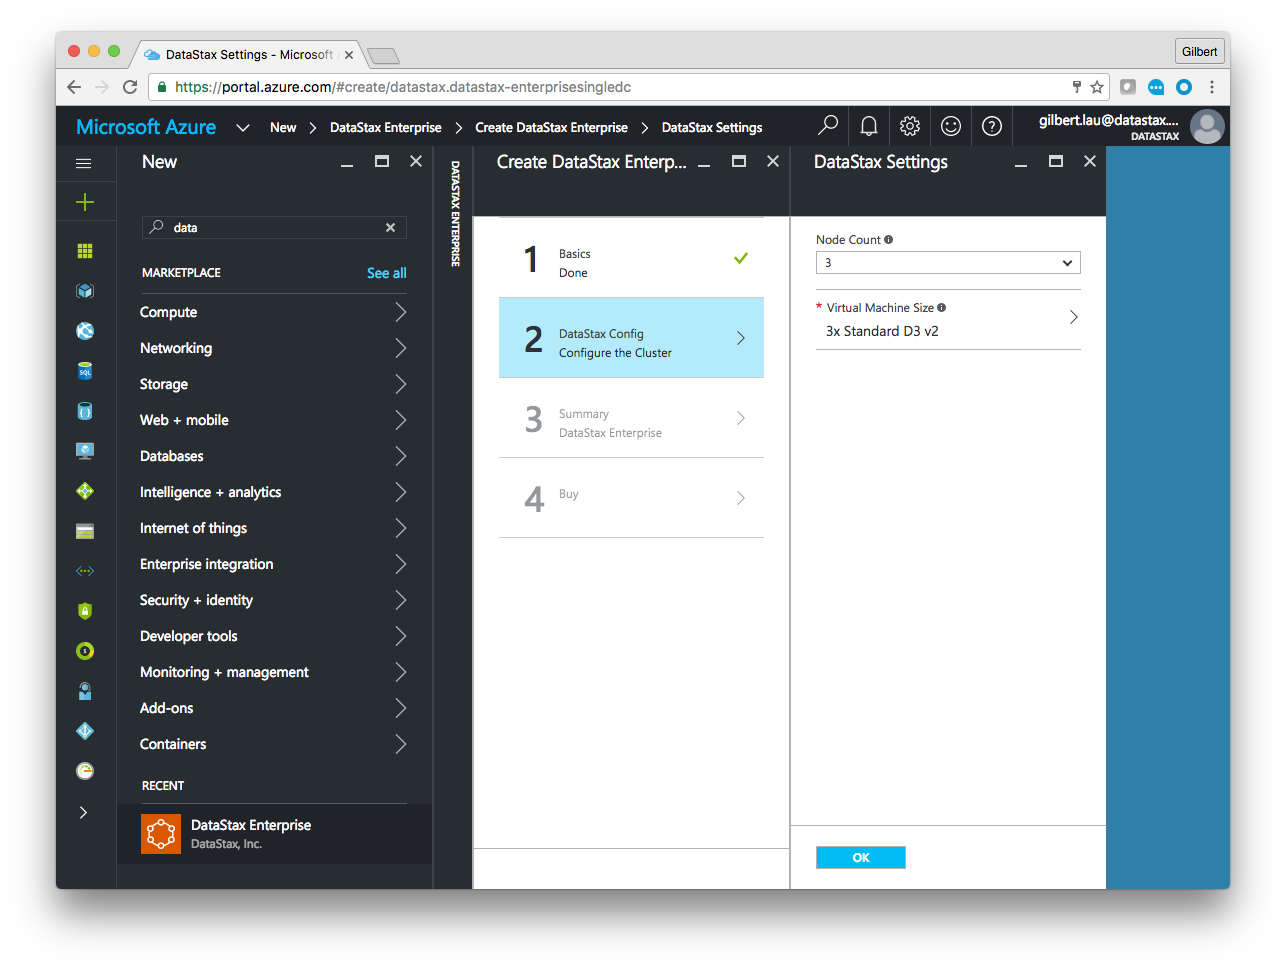
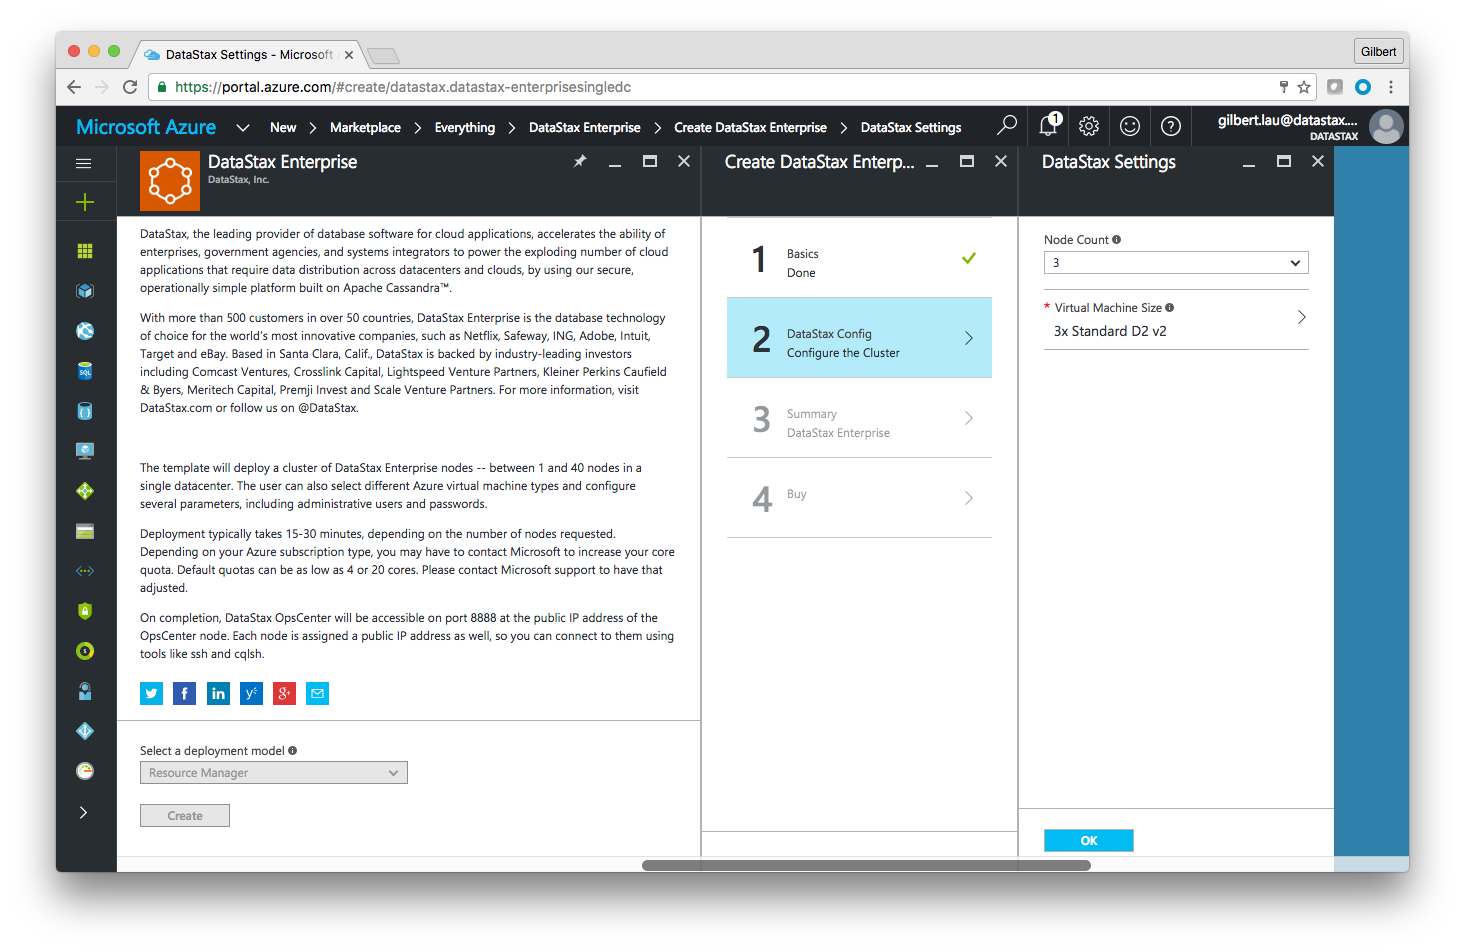
Reverted back to D2 machines
Run two gremlin queries in Graph lab now.

diff --git a/labs/Lab 7 - Graph.md b/labs/Lab 7 - Graph.md
@@ -112,7 +112,7 @@ list_of_review_data_paths = ['/path/to/reviews.json.gz']
 list_of_review_data_paths = ['/path/to/reviews.json.gz']
 list_of_metadata_paths = ['/path/to/meta.json.gz']
 ```
-In my environemnt, they are:
+In my environment, they are:
 ```
 // data file paths
 list_of_review_data_paths = ['/home/datastax/DSE_Graph/reviews.json.gz']
@@ -125,29 +125,17 @@ Now, let's load the data into your graph database
 cd <DSE graph loader install directory>
 ./graphloader <DSE_Graph/DSE-Graph-For-Fun git project directory>/data_mapper.groovy -graph product_graph -address localhost
 ```
-This process will take approximately ten minutes.
+In my environment, the command is:
+```
+./graphloader /home/datastax/DSE_Graph/DSE-Graph-For-Fun/data_mapper.groovy -graph product_graph -address localhost
+```
+
+This process will take approximately 15 minutes as we are loading millions of records.
 
 
 ##### Now, we are ready to run some queries.
 
-Let's run a very broad query to return all vertices.  Remember that Studio truncates results to 1000 by default.  This query will take around 6 or 7 minutes long as it has to traverse the entire graph.
-```
-g.V()
-```
-
-![](./img/lab7_gV.png)
-
-Now, let's run a more refined query to retrieve reviews of all product items.  This query will take around 6 or 7 minutes long as it has to traverse the entire graph.
-
-```
-g.V().outE('reviewed')
-```
-
-![](./img/lab7_item_reviewed.png)
-![](.img/lab7_item_reviewed_graph.png)
-
-
-Next, let's find out how many items have the word "awesome" in their description.  Run the following Gremlin query:
+Let's find out how many items have the word "awesome" in their description.  Run the following Gremlin query:
 
 ```
 g.V().has('Item','description', Search.tokenRegex('awesome')).count()

diff --git a/labs/Lab 0 - Provisioning.md b/labs/Lab 0 - Provisioning.md
@@ -36,7 +36,7 @@ When complete click "ok."
 
 ![](./img/lab0-6datastaxsettings_v502.png)
 
-We're going to deploy a smaller cluster than the default.  Select 3 nodes and ensure that "Standard D3 v2" is selected as the machine size.  Note that if you are using a free trial you will need to use a "Standard D1 v2" instead.  If you are not using the free trial, we strongly recommend the Standard D3 v2 as that will have more resources available for the exercises.
+We're going to deploy a smaller cluster than the default.  Select 3 nodes and ensure that "Standard D2 v2" is selected as the machine size.  Note that if you are using a free trial you will need to use a "Standard D1 v2" instead.  If you are not using the free trial, we strongly recommend the Standard D2 v2 as that will have more resources available for the exercises.
 
 Ensure that you have the correct selections as show below.
 
